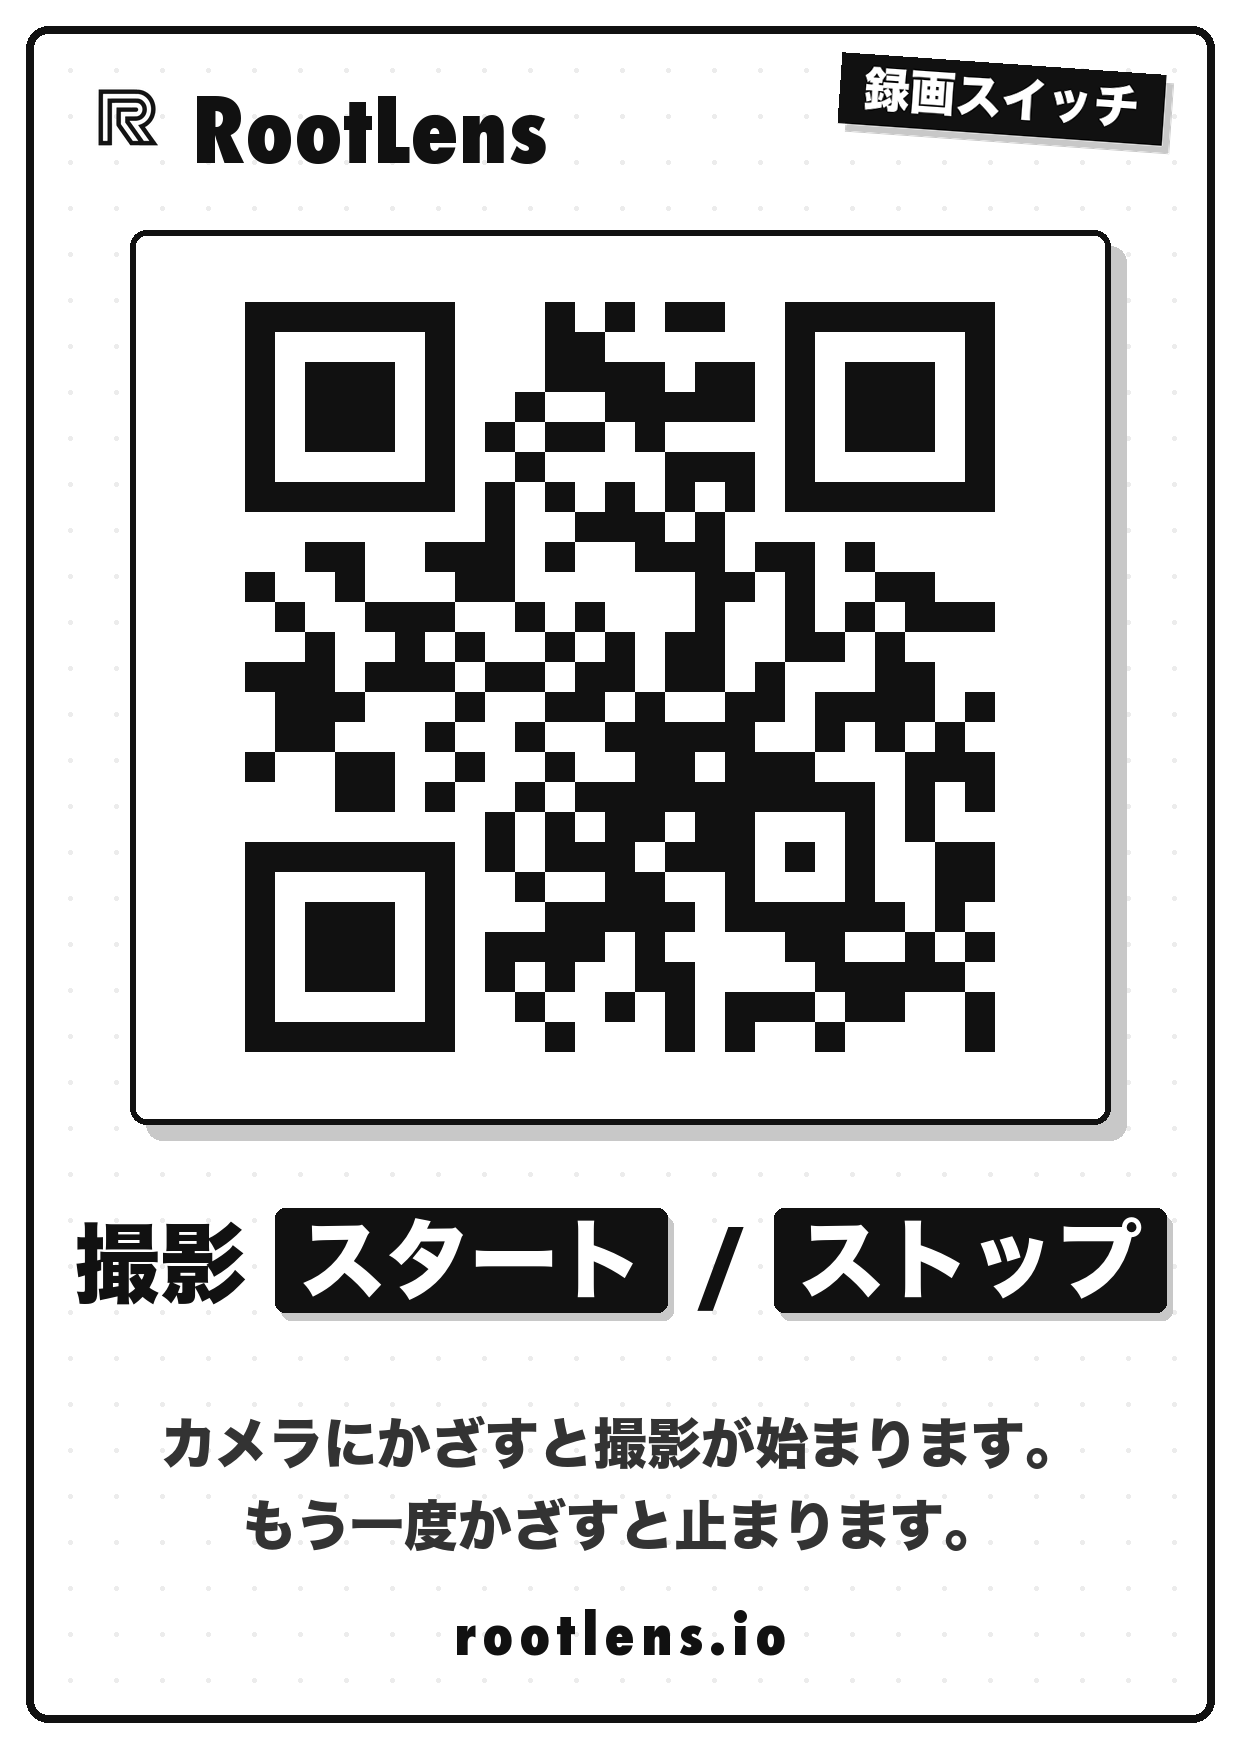
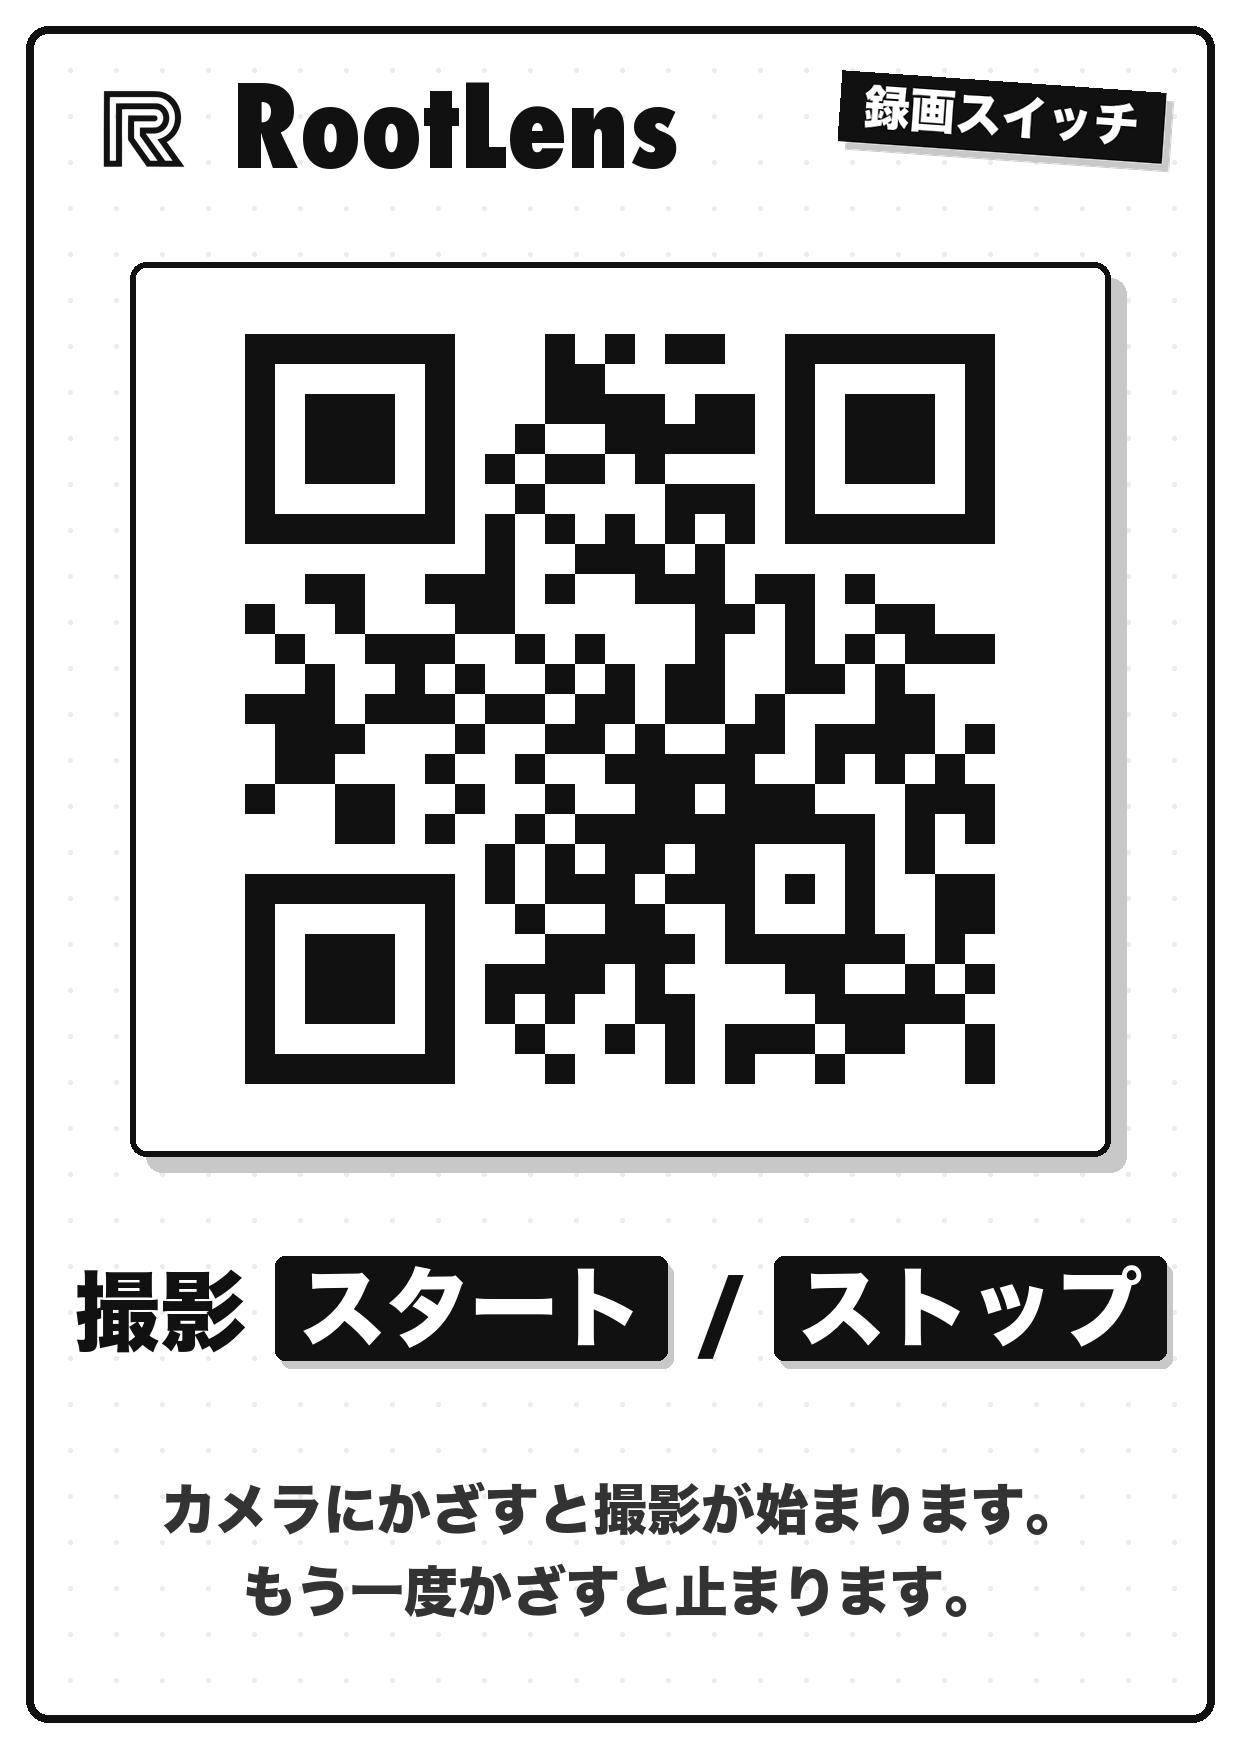
fix(business): marker header lockup sized up and aligned, URL dropped

Changed region(s): [[0.0613, 0.0309, 0.95, 0.9577], [0.0613, 0.0309, 0.5516, 0.0927]]

diff --git a/tools/asset-gen/gen-marker.py b/tools/asset-gen/gen-marker.py
@@ -92,10 +92,13 @@ def main() -> None:
     rounded_rect(draw, (26, 26, CARD_W - 26, CARD_H - 26), radius=22, outline=INK, width=8)
 
     # ── ヘッダ: ロゴロックアップ + 傾けたライムのタグ ──
-    logo = ink_logo(repo_root, 96)
-    card.paste(logo, (78, 68), logo)
-    wm_font = load_latin_font(88)
-    draw.text((192, 74), "RootLens", font=wm_font, fill=INK)
+    logo_size = 130
+    logo = ink_logo(repo_root, logo_size)
+    logo_y = 62
+    card.paste(logo, (76, logo_y), logo)
+    wm_font = load_latin_font(112)
+    draw.text((76 + logo_size + 26, logo_y + logo_size / 2), "RootLens",
+              font=wm_font, fill=INK, anchor="lm")
 
     tag_font = load_jp_font(46)
     tag_text = "録画スイッチ"
@@ -106,7 +109,7 @@ def main() -> None:
     tag_draw.rectangle((0, 0, tw + 48, 46 + 24), fill=INK + (255,))
     tag_draw.text((24, 10), tag_text, font=tag_font, fill=PAPER)
     tag = tag.rotate(-4, expand=True, resample=Image.BICUBIC)
-    card.paste(tag, (CARD_W - tag.width - 58, 52), tag)
+    card.paste(tag, (CARD_W - tag.width - 58, 70), tag)
 
     # ── QR プレート (白地 + インク枠 + ライムの硬い影) ──
     qr = qrcode.QRCode(error_correction=qrcode.constants.ERROR_CORRECT_H, border=0)
@@ -114,7 +117,7 @@ def main() -> None:
     qr.make(fit=True)
     qr_img = qr.make_image(fill_color="black", back_color="white").convert("L")
 
-    plate_x0, plate_y0 = 130, 230
+    plate_x0, plate_y0 = 130, 262
     plate_w = CARD_W - plate_x0 * 2
     quiet = 72  # 端末検出用の quiet zone (≥4 モジュール相当)
     qr_size = plate_w - quiet * 2
@@ -136,7 +139,7 @@ def main() -> None:
     # ── タイトル: 撮影 スタート / ストップ (チップは黒地白抜き) ──
     title_font = load_jp_font(86)
     chip_pad_x, chip_pad_y = 24, 12
-    y_title = plate_y1 + 96
+    y_title = plate_y1 + 112
 
     def chip_w(text: str) -> int:
         return int(draw.textlength(text, font=title_font)) + chip_pad_x * 2
@@ -165,21 +168,10 @@ def main() -> None:
     # ── 説明 2 行 ──
     sub_font = load_jp_font(54)
     sub_lines = ["カメラにかざすと撮影が始まります。", "もう一度かざすと止まります。"]
-    y_sub = y_title + 196
+    y_sub = y_title + 214
     for i, line in enumerate(sub_lines):
         lw = draw.textlength(line, font=sub_font)
         draw.text(((CARD_W - lw) / 2, y_sub + i * 82), line, font=sub_font, fill=BODY)
-
-    # ── フッタ: rootlens.io ──
-    foot_font = load_latin_font(56)
-    foot = "rootlens.io"
-    tracking = 6
-    fw = sum(int(draw.textlength(c, font=foot_font)) + tracking for c in foot) - tracking
-    fx = (CARD_W - fw) / 2
-    fy = CARD_H - 150
-    for c in foot:
-        draw.text((fx, fy), c, font=foot_font, fill=INK)
-        fx += draw.textlength(c, font=foot_font) + tracking
 
     os.makedirs(os.path.dirname(out_path), exist_ok=True)
     card.save(out_path, dpi=(300, 300))
